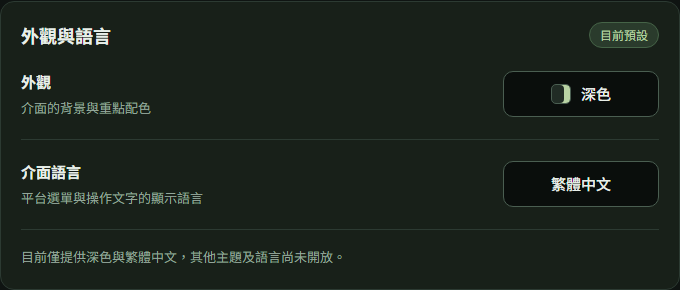
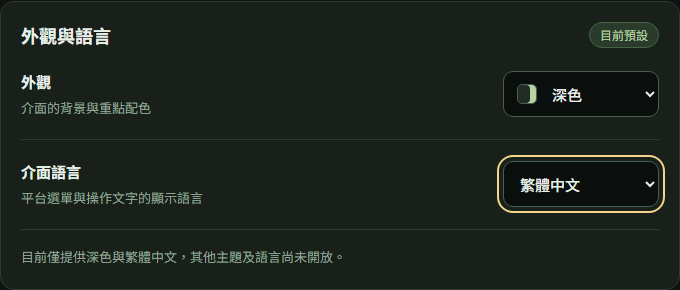
fix(settings): restore appearance and language dropdowns

diff --git a/frontend/src/App.vue b/frontend/src/App.vue
@@ -475,13 +475,28 @@ async function testConnection() {
                   ><h2>外觀與語言</h2><span class="chip">目前預設</span></div
                 ><dl class="appearance-options"
                   ><div class="appearance-option"
-                    ><dt>外觀<small>介面的背景與重點配色</small></dt
-                    ><dd class="appearance-value"
-                      ><span class="appearance-swatch" aria-hidden="true"></span>深色</dd
+                    ><dt
+                      ><label for="appearance-theme">外觀</label
+                      ><small id="appearance-theme-description">介面的背景與重點配色</small></dt
+                    ><dd class="appearance-value appearance-theme"
+                      ><span class="appearance-swatch" aria-hidden="true"></span
+                      ><select id="appearance-theme" aria-describedby="appearance-theme-description"
+                        ><option value="dark">深色</option></select
+                      ></dd
                     ></div
                   ><div class="appearance-option"
-                    ><dt>介面語言<small>平台選單與操作文字的顯示語言</small></dt
-                    ><dd class="appearance-value">繁體中文</dd></div
+                    ><dt
+                      ><label for="appearance-language">介面語言</label
+                      ><small id="appearance-language-description"
+                        >平台選單與操作文字的顯示語言</small
+                      ></dt
+                    ><dd class="appearance-value"
+                      ><select
+                        id="appearance-language"
+                        aria-describedby="appearance-language-description"
+                        ><option value="zh-TW">繁體中文</option></select
+                      ></dd
+                    ></div
                   ></dl
                 ><p class="appearance-note"
                   >目前僅提供深色與繁體中文，其他主題及語言尚未開放。</p

diff --git a/frontend/src/redesign.css b/frontend/src/redesign.css
@@ -677,6 +677,11 @@
   font-size: 15px;
   font-weight: 600;
 }
+#app .atelier-shell .appearance-option label {
+  margin: 0;
+  font-size: 15px;
+  font-weight: 600;
+}
 #app .atelier-shell .appearance-option small {
   display: block;
   margin-top: 3px;
@@ -685,29 +690,31 @@
   font-weight: 400;
 }
 #app .atelier-shell .appearance-value {
-  display: flex;
-  align-items: center;
-  justify-content: center;
-  gap: 10px;
-  min-height: 46px;
+  position: relative;
   margin: 0;
-  padding: 9px 16px;
-  border: 1px solid var(--line2);
-  border-radius: 10px;
-  background: var(--stage);
-  color: var(--ink);
-  font-size: 15px;
-  font-weight: 500;
   white-space: normal;
 }
+#app .atelier-shell .appearance-value select {
+  width: 100%;
+  min-height: 46px;
+  font-weight: 500;
+  cursor: pointer;
+}
+#app .atelier-shell .appearance-theme select {
+  padding-left: 44px;
+}
 #app .atelier-shell .appearance-swatch {
+  position: absolute;
+  left: 14px;
+  top: 50%;
+  transform: translateY(-50%);
   width: 20px;
   height: 20px;
-  flex: none;
   border: 1px solid var(--line2);
   border-radius: 5px;
   background: var(--raised);
   box-shadow: inset -6px 0 var(--accent);
+  pointer-events: none;
 }
 #app .atelier-shell .appearance-note {
   margin: 16px 0 0;
